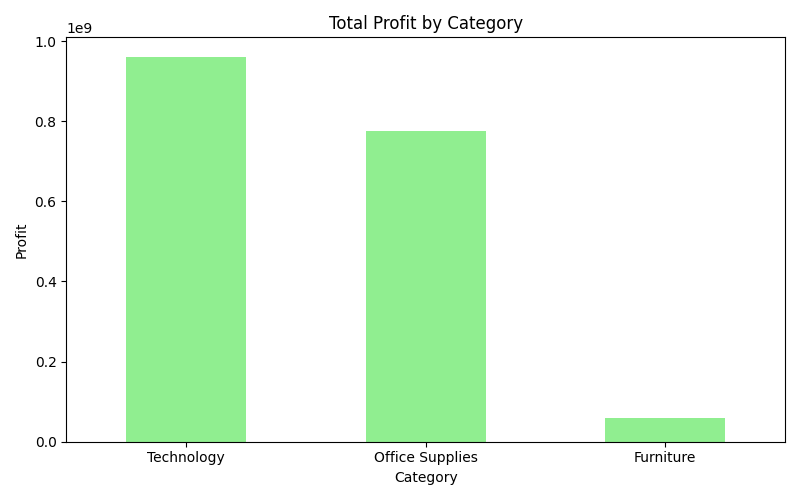
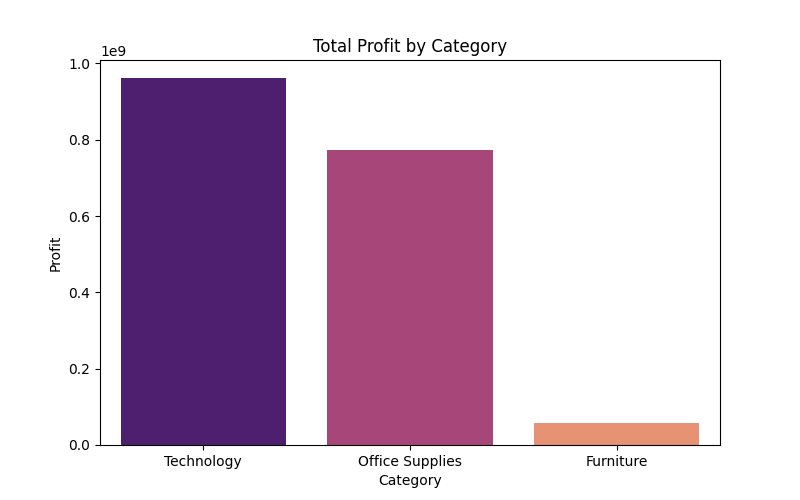
Add charts for sales and profit analysis

diff --git a/python/charts.py b/python/charts.py
@@ -1,24 +1,19 @@
 import pandas as pd
 import matplotlib.pyplot as plt
-import os
+import seaborn as sns
 
-# Load cleaned dataset
 file_path = "data/cleaned/superstore_cleaned.csv"
 df = pd.read_csv(file_path)
-
-# Create charts folder if it doesn't exist
-os.makedirs("charts", exist_ok=True)
 
 # -------------------------
 # Sales by Category
 # -------------------------
 sales_category = df.groupby("Category")["Sales"].sum().sort_values(ascending=False)
 plt.figure(figsize=(8,5))
-sales_category.plot(kind='bar', color='skyblue')
+sns.barplot(x=sales_category.index, y=sales_category.values, palette="viridis")
 plt.title("Total Sales by Category")
 plt.ylabel("Sales")
-plt.xticks(rotation=0)
-plt.tight_layout()
+plt.xlabel("Category")
 plt.savefig("charts/sales_by_category.png")
 plt.close()
 
@@ -27,11 +22,10 @@ plt.close()
 # -------------------------
 profit_category = df.groupby("Category")["Profit"].sum().sort_values(ascending=False)
 plt.figure(figsize=(8,5))
-profit_category.plot(kind='bar', color='lightgreen')
+sns.barplot(x=profit_category.index, y=profit_category.values, palette="magma")
 plt.title("Total Profit by Category")
 plt.ylabel("Profit")
-plt.xticks(rotation=0)
-plt.tight_layout()
+plt.xlabel("Category")
 plt.savefig("charts/profit_by_category.png")
 plt.close()
 
@@ -40,25 +34,21 @@ plt.close()
 # -------------------------
 top_states = df.groupby("State")["Sales"].sum().sort_values(ascending=False).head(10)
 plt.figure(figsize=(10,6))
-top_states.plot(kind='bar', color='coral')
+sns.barplot(x=top_states.values, y=top_states.index, palette="coolwarm")
 plt.title("Top 10 States by Sales")
-plt.ylabel("Sales")
-plt.xticks(rotation=45)
-plt.tight_layout()
-plt.savefig("charts/top_states.png")
+plt.xlabel("Sales")
+plt.ylabel("State")
+plt.savefig("charts/top_10_states.png")
 plt.close()
 
 # -------------------------
 # Sales by Customer Segment
 # -------------------------
 segment_sales = df.groupby("Segment")["Sales"].sum().sort_values(ascending=False)
-plt.figure(figsize=(6,4))
-segment_sales.plot(kind='bar', color='violet')
+plt.figure(figsize=(8,5))
+sns.barplot(x=segment_sales.index, y=segment_sales.values, palette="plasma")
 plt.title("Sales by Customer Segment")
 plt.ylabel("Sales")
-plt.xticks(rotation=0)
-plt.tight_layout()
-plt.savefig("charts/segment_sales.png")
+plt.xlabel("Segment")
+plt.savefig("charts/sales_by_segment.png")
 plt.close()
-
-print("All charts saved in 'charts/' folder successfully!")
